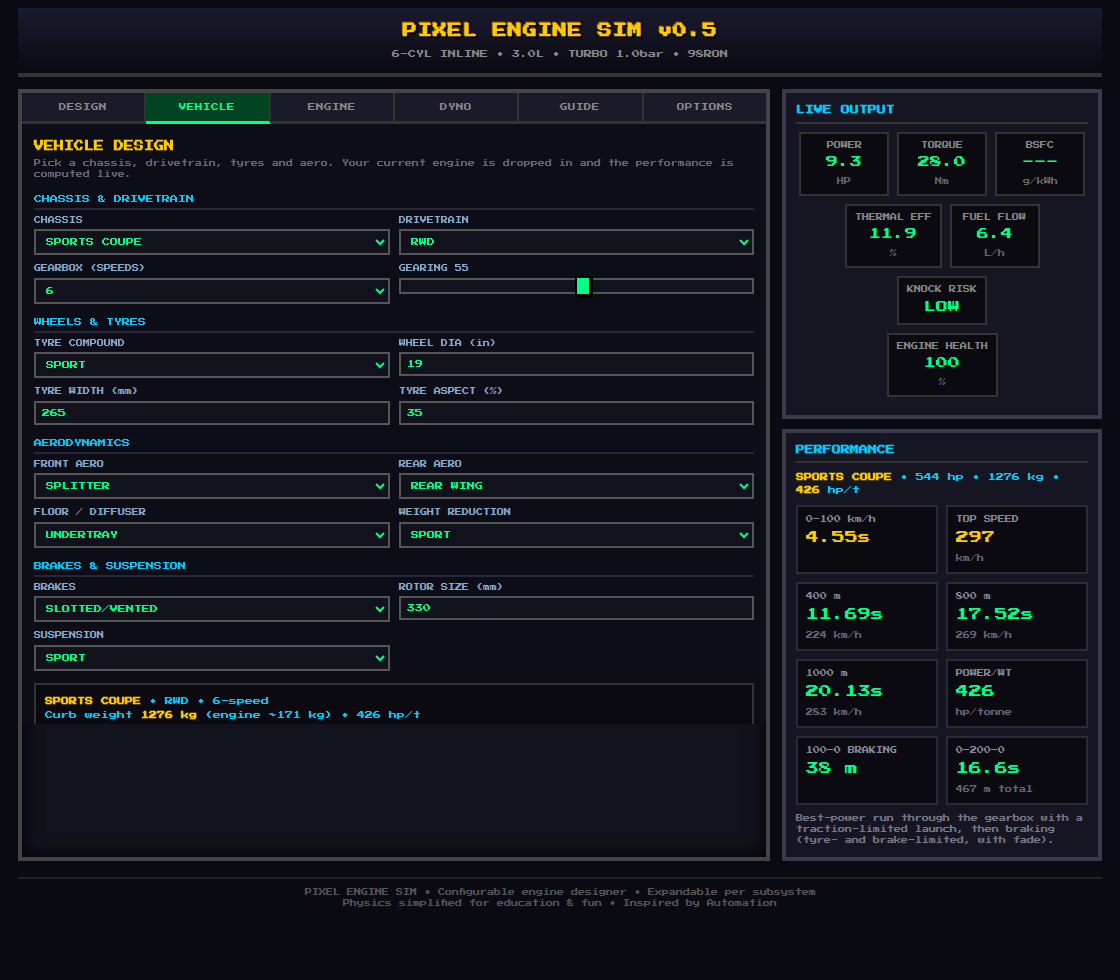
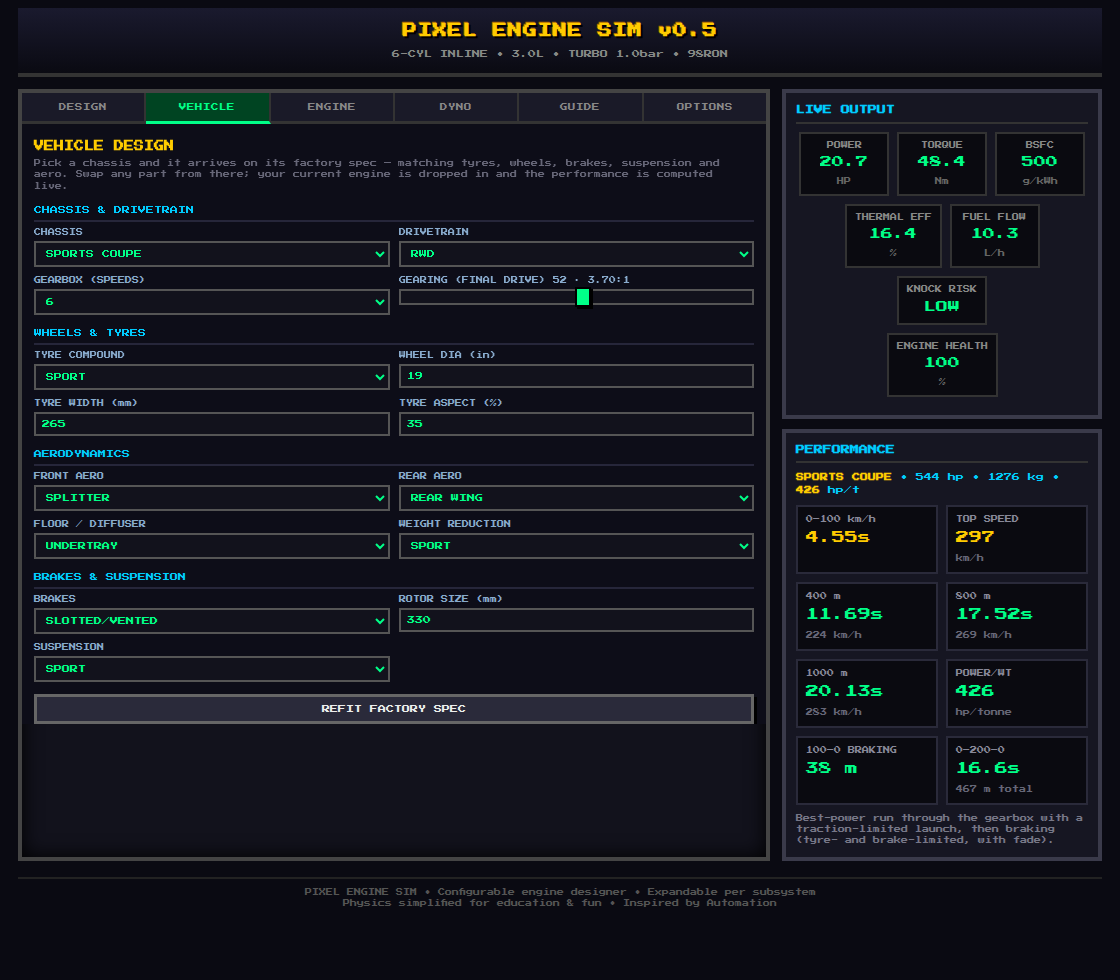
Chassis-linked factory fitment + explain the gearing number (#29)
Picking a chassis used to leave whatever parts were already selected, so a kei
car could turn up on 305-section slicks and carbon-ceramics. Each chassis now
carries a `fit`: the coherent factory spec it ships with — tyres, wheels,
brakes, rotor size, suspension, aero, weight reduction, gearbox and final
drive. Selecting a chassis applies that spec; everything stays editable and
REFIT FACTORY SPEC puts it back. The summary marks the car (factory spec) or
(modified).

Fitments are matched to each archetype: kei on 165/60R15 eco tyres with 260mm
steel discs, hot hatch on 205/45R17, muscle on 275/40R18 with a big brake kit,
mid-engine super on 285/35R19 semi-slicks with splitter/wing/undertray, hypercar
on 305/30R20 with carbon-ceramics and a full wing/diffuser package, prototype on
slicks, pickup/SUV on tall touring rubber.

Also explains the gearing number, which was an unlabelled 0-100 slider:
- Labelled GEARING (FINAL DRIVE) and the read-out now shows the ratio it means
  (e.g. "52 · 3.70:1"), spanning 4.90:1 short to 2.60:1 tall.
- GUIDE (EN + EL) gains a section on what the number is, what short vs tall
  gearing does, and why over-gearing costs both acceleration and top speed.
  Verified against the sim: a 1.5 NA sedan peaks at ~4.7:1 then falls from 200
  to 139 km/h by 2.60:1, while a twin-turbo V8 supercar gains all the way out.

Fixes a real bug found while testing: readVehicleFromForm used
`+value||55` for gearing, so a legitimate slider value of 0 (the shortest
[…]

diff --git a/index.html b/index.html
@@ -371,16 +371,31 @@ ignition type set charging and the misfire RPM limit.
 </div>
 <div class="design-section">Vehicle &amp; Performance</div>
 <div class="guide-body" data-gk="vehicle">
-On the <b>VEHICLE</b> tab you drop your engine into a car. Pick a <b>chassis</b> (each has its
-own weight, size and drivetrain), a <b>drivetrain</b> (FWD/RWD/AWD — AWD launches hardest),
-a <b>gearbox</b> (speeds + a short↔tall gearing slider), <b>tyres</b> (compound + width/profile/
+On the <b>VEHICLE</b> tab you drop your engine into a car. Pick a <b>chassis</b> and it arrives on
+its <b>factory spec</b> — the tyres, wheels, brakes, suspension, aero and gearbox that car would
+really wear, so a kei car turns up on skinny eco tyres and small steel discs while a hypercar gets
+wide semi-slicks, carbon-ceramics and a wing/diffuser package. Everything stays editable from
+there; <b>REFIT FACTORY SPEC</b> puts it all back.<br>
+From that baseline you tune the <b>drivetrain</b> (FWD/RWD/AWD — AWD launches hardest),
+the <b>gearbox</b> (speeds + the gearing slider), <b>tyres</b> (compound + width/profile/
 diameter set grip and rolling radius), <b>aero</b> (front/rear/floor add downforce and drag),
 <b>brakes</b> (type + rotor size set stopping power and fade resistance) and <b>suspension</b>
-(a mechanical-grip multiplier). The engine's mass and torque curve are added in and the
+(a mechanical-grip multiplier).<br>
+<b>The gearing number</b> — the 0–100 slider is your <b>final drive ratio</b>, how many times the
+driveshaft turns per turn of the wheels. It runs from <b>0 = 4.90:1</b> (the <i>shortest</i>,
+lowest gearing) to <b>100 = 2.60:1</b> (the <i>tallest</i>); the ratio is shown next to the number.
+Short gearing multiplies torque at the wheels, so the car accelerates harder and reaches the rev
+limiter sooner — quick 0–100, but it runs out of revs at a low top speed. Tall gearing does the
+opposite: lazier acceleration, more speed per 1000 rpm and a higher top speed, and calmer cruising
+revs. The best setting is the one where the car hits the redline in top gear right as drag stops
+it — go taller than that and you lose acceleration <i>and</i> top speed, because the engine can no
+longer pull to its power peak. Big power and low drag want taller gearing; heavy, low-power or
+draggy cars want shorter.<br>
+The engine's mass and torque curve are added in and the
 <b>Performance</b> panel computes <b>0–100 km/h</b>, <b>400/800/1000 m</b> (time + trap speed),
 <b>top speed</b>, <b>100–0 braking</b> and the <b>0–200–0</b> test live — a traction-limited launch
 and a tyre/brake-limited stop with fade, weight transfer, downforce, drag and rolling resistance.
-Over-gearing hurts both acceleration and top speed; sticky tyres, big brakes and AWD help most.
+Sticky tyres, big brakes and AWD help most.
 </div>
 <div class="guide-body" data-gk="tip" style="color:#667;margin-top:12px">Tip: turn WEAR off in OPTIONS to
 experiment freely, then back on for consequences.</div>
@@ -407,7 +422,7 @@ experiment freely, then back on for consequences.</div>
 <!-- VEHICLE: drop the engine into a car and read its acceleration & top speed -->
 <div class="design-panel vehicle-panel" id="vehiclePanelTab">
 <h3>VEHICLE DESIGN</h3>
-<div class="hint">Pick a chassis, drivetrain, tyres and aero. Your current engine is dropped in and the performance is computed live.</div>
+<div class="hint">Pick a chassis and it arrives on its factory spec — matching tyres, wheels, brakes, suspension and aero. Swap any part from there; your current engine is dropped in and the performance is computed live.</div>
 
 <div class="design-section">Chassis &amp; Drivetrain</div>
 <div class="design-grid">
@@ -419,7 +434,7 @@ experiment freely, then back on for consequences.</div>
 </select></div>
 <div class="field"><label for="vhDrive">DRIVETRAIN</label><select id="vhDrive"><option value="fwd">FWD</option><option value="rwd">RWD</option><option value="awd">AWD</option></select></div>
 <div class="field"><label for="vhGears">GEARBOX (SPEEDS)</label><select id="vhGears"><option value="4">4</option><option value="5">5</option><option value="6">6</option><option value="7">7</option><option value="8">8</option></select></div>
-<div class="field"><label for="vhGearing"><span id="lblGearing" class="ctl-lbl">GEARING</span> <span class="val" id="valGearing">55</span></label><input type="range" id="vhGearing" min="0" max="100" step="1" value="55" aria-label="Gearing short to tall"></div>
+<div class="field"><label for="vhGearing"><span id="lblGearing" class="ctl-lbl">GEARING (FINAL DRIVE)</span> <span class="val" id="valGearing">52</span></label><input type="range" id="vhGearing" min="0" max="100" step="1" value="52" aria-label="Gearing short to tall"></div>
 </div>
 
 <div class="design-section">Wheels &amp; Tyres</div>
@@ -443,6 +458,9 @@ experiment freely, then back on for consequences.</div>
 <div class="field"><label for="vhBrake">BRAKES</label><select id="vhBrake"><option value="steel">STEEL DISC</option><option value="slotted">SLOTTED/VENTED</option><option value="big">BIG BRAKE KIT</option><option value="carbon">CARBON-CERAMIC</option></select></div>
 <div class="field"><label for="vhRotor">ROTOR SIZE (mm)</label><input type="number" id="vhRotor" min="250" max="420" step="10" value="330"></div>
 <div class="field"><label for="vhSusp">SUSPENSION</label><select id="vhSusp"><option value="comfort">COMFORT</option><option value="sport">SPORT</option><option value="coilover">COILOVERS</option><option value="race">RACE/ADJUST</option></select></div>
+</div>
+<div class="build-row">
+<button id="btnRefit">REFIT FACTORY SPEC</button>
 </div>
 <div class="design-summary" id="vehicleSummary"></div>
 </div>
@@ -682,8 +700,10 @@ const I18N={
   'SOUND ON':{el:'ΗΧΟΣ ΟΝ'},'SOUND OFF':{el:'ΗΧΟΣ OFF'},'WEAR ON':{el:'ΦΘΟΡΑ ΟΝ'},'WEAR OFF':{el:'ΦΘΟΡΑ OFF'},
   // vehicle tab
   'VEHICLE':{el:'ΟΧΗΜΑ'},'VEHICLE DESIGN':{el:'ΣΧΕΔΙΑΣΗ ΟΧΗΜΑΤΟΣ'},
-  'Pick a chassis, drivetrain, tyres and aero. Your current engine is dropped in and the performance is computed live.':{el:'Διάλεξε σασί, μετάδοση, ελαστικά και αεροδυναμική. Ο τρέχων κινητήρας μπαίνει μέσα και οι επιδόσεις υπολογίζονται ζωντανά.'},
-  'Chassis & Drivetrain':{el:'Σασί & Μετάδοση'},'CHASSIS':{el:'ΣΑΣΙ'},'DRIVETRAIN':{el:'ΜΕΤΑΔΟΣΗ'},'GEARBOX (SPEEDS)':{el:'ΚΙΒΩΤΙΟ (ΣΧΕΣΕΙΣ)'},'GEARING':{el:'ΤΕΛΙΚΗ ΣΧΕΣΗ'},
+  'Pick a chassis and it arrives on its factory spec — matching tyres, wheels, brakes, suspension and aero. Swap any part from there; your current engine is dropped in and the performance is computed live.':{el:'Διάλεξε σασί και έρχεται με τον εργοστασιακό του εξοπλισμό — ταιριαστά ελαστικά, ζάντες, φρένα, ανάρτηση και αεροδυναμική. Άλλαξε ό,τι θέλεις από εκεί· ο τρέχων κινητήρας μπαίνει μέσα και οι επιδόσεις υπολογίζονται ζωντανά.'},
+  'Chassis & Drivetrain':{el:'Σασί & Μετάδοση'},'CHASSIS':{el:'ΣΑΣΙ'},'DRIVETRAIN':{el:'ΜΕΤΑΔΟΣΗ'},'GEARBOX (SPEEDS)':{el:'ΚΙΒΩΤΙΟ (ΣΧΕΣΕΙΣ)'},'GEARING (FINAL DRIVE)':{el:'ΤΕΛΙΚΗ ΣΧΕΣΗ'},
+  'REFIT FACTORY SPEC':{el:'ΕΡΓΟΣΤΑΣΙΑΚΟΣ ΕΞΟΠΛΙΣΜΟΣ'},'FITTED':{el:'ΤΟΠΟΘΕΤΗΘΗΚΕ'},'REFITTED TO FACTORY SPEC':{el:'ΕΠΑΝΑΦΟΡΑ ΣΤΟΝ ΕΡΓΟΣΤΑΣΙΑΚΟ ΕΞΟΠΛΙΣΜΟ'},
+  '(factory spec)':{el:'(εργοστασιακό)'},'(modified)':{el:'(τροποποιημένο)'},
   'Wheels & Tyres':{el:'Τροχοί & Ελαστικά'},'TYRE COMPOUND':{el:'ΤΥΠΟΣ ΕΛΑΣΤΙΚΟΥ'},'WHEEL DIA (in)':{el:'ΔΙΑΜ. ΖΑΝΤΑΣ (in)'},'TYRE WIDTH (mm)':{el:'ΠΛΑΤΟΣ ΕΛΑΣΤ. (mm)'},'TYRE ASPECT (%)':{el:'ΠΡΟΦΙΛ ΕΛΑΣΤ. (%)'},
   'Aerodynamics':{el:'Αεροδυναμική'},'FRONT AERO':{el:'ΕΜΠΡΟΣ ΑΕΡΟΔ.'},'REAR AERO':{el:'ΠΙΣΩ ΑΕΡΟΔ.'},'FLOOR / DIFFUSER':{el:'ΠΑΤΩΜΑ / DIFFUSER'},'WEIGHT REDUCTION':{el:'ΜΕΙΩΣΗ ΒΑΡΟΥΣ'},
   'Brakes & Suspension':{el:'Φρένα & Ανάρτηση'},'BRAKES':{el:'ΦΡΕΝΑ'},'ROTOR SIZE (mm)':{el:'ΔΙΑΜ. ΔΙΣΚΟΥ (mm)'},'SUSPENSION':{el:'ΑΝΑΡΤΗΣΗ'},
@@ -710,7 +730,7 @@ const GUIDE_I18N={
   career:{el:'Διάλεξε έναν <b>ΣΤΟΧΟ</b> στην κορυφή της ΣΧΕΔΙΑΣΗΣ για να κάνεις τη σχεδίαση γρίφο. Κάθε πρόκληση θέτει κριτήρια — ισχύ, οικονομία, εκπομπές, <b>αξιοπιστία</b> ή <b>ισχύ ανά δολάριο</b> — και κάποιες βάζουν όριο <b>προϋπολογισμού</b>. Η κάρτα τσεκάρει κάθε κριτήριο ζωντανά (✓/✗) και δείχνει <b>ΕΠΙΤΥΧΙΑ</b> όταν καλυφθούν όλα· κόστος και αξιοπιστία φαίνονται πάντα. Ο μεγάλος κυβισμός κερδίζει σε αξία· boost και αγωνιστικά μέρη κερδίζουν σε ισχύ αλλά κοστίζουν σε χρήμα και αξιοπιστία.'},
   types:{el:'<b>Βενζίνη 4-χρονη</b> — η ισορροπημένη επιλογή: ανάφλεξη με σπινθήρα, μία εκρηκτική διαδρομή ανά δύο στροφές.<br><b>Πετρέλαιο (CI)</b> — ανάφλεξη με συμπίεση (χωρίς μπουζί, χωρίς πειράκι), πολύ υψηλή συμπίεση, φτωχό χωρίς πεταλούδα. Μεγάλη <b>ροπή</b> στις χαμηλές, χαμηλό όριο στροφών, η καλύτερη <b>απόδοση</b> — αλλά βαρύ, με εκπομπές <b>NOx + αιθάλη (PM)</b> που καθαρίζει σύστημα DPF/SCR.<br><b>2-χρονη</b> — εκρηκτική διαδρομή σε <i>κάθε</i> στροφή (θυρίδες, χωρίς εκκεντροφόρο): υψηλή ειδική ισχύς αλλά λαίμαργη και <b>HC</b>-βρόμικη.<br><b>Wankel (ρότορας)</b> — περιστρεφόμενος ρότορας που ανάβει σε κάθε στροφή: ομαλός σαν τουρμπίνα, τεράστιες στροφές, υψηλή ισχύς ανά λίτρο, αλλά λαίμαργος, <b>HC</b>-βαρύς και σκληρός στα ελάσματα κορυφής.<br>Η αλλαγή τύπου προσαρμόζει τα εύρη συμπίεσης/στροφών/AFR και απενεργοποιεί ό,τι δεν ισχύει.'},
   subsystems:{el:'<b>Κάτω μέρος</b> — τύπος κινητήρα, διάμετρος × διαδρομή × κύλινδροι = κυβισμός· υπερτετράγωνος & υψηλότερο όριο ανεβάζουν την περιοχή ισχύος.<br><b>Διαδρομή αέρα</b> — τούρμπο (γεμίζει με τις στροφές) ή υπερσυμπιεστής (boost από ρελαντί)· το intercooler ψύχει το χάρμανι· εξάτμιση & καταλύτης ανταλλάσσουν ροή με αντίθλιψη/εκπομπές· το νιτρό είναι εμφιαλωμένη ισχύς.<br><b>Εισαγωγή</b> — καρμπιρατέρ → EFI → ITB ορίζουν αναπνοή, ακρίβεια & ρελαντί.<br><b>Χρονισμός βαλβίδων</b> — άγριες εκκεντροφόροι ανεβάζουν την ισχύ ψηλά· το VVT επαναφέρει τις χαμηλές.<br><b>Καύσιμο & σπινθήρας</b> — τύπος καυσίμου, οκτάνια, μπεκ, ανάφλεξη, χρονισμός FIXED/AUTO και το μείγμα: MANUAL (ένα σταθερό AFR) ή AUTO — ένας 3D χάρτης ECU που τρέχει κοντά στο στοιχειομετρικό στο ελαφρύ φορτίο και εμπλουτίζει υπό φορτίο/boost, όπως ένας πραγματικός χάρτης καυσίμου. Στο AUTO μπορείς να <b>ρυθμίσεις τον χάρτη</b>: πάτησε ένα κελί και μετά − ΦΤΩΧΟ / + ΠΛΟΥΣΙΟ για να αλλάξεις τον στόχο σε εκείνο το φορτίο×στροφές (ΕΠΑΝΑΦΟΡΑ ΧΑΡΤΗ επαναφέρει το εργοστασιακό).<br><b>Ψύξη & ηλεκτρικά</b> — ψυγείο/βεντιλατέρ/ψυγείο λαδιού/θερμοστάτης ορίζουν θερμοκρασίες· δυναμό & ανάφλεξη ορίζουν φόρτιση και όριο μισφάιρ.'},
-  vehicle:{el:'Στην καρτέλα <b>ΟΧΗΜΑ</b> βάζεις τον κινητήρα σου σε αυτοκίνητο. Διάλεξε <b>σασί</b> (κάθε ένα με δικό του βάρος, μέγεθος και μετάδοση), <b>μετάδοση</b> (FWD/RWD/AWD — το AWD ξεκινά καλύτερα), <b>κιβώτιο</b> (σχέσεις + ρυθμιστικό κοντή↔μακριά τελική), <b>ελαστικά</b> (τύπος + πλάτος/προφίλ/διάμετρος), <b>αεροδυναμική</b> (εμπρός/πίσω/πάτωμα = κάθετη δύναμη & οπισθέλκουσα), <b>φρένα</b> (τύπος + διάμετρος δίσκου ορίζουν φρενάρισμα και αντοχή στην εξασθένηση) και <b>ανάρτηση</b> (πολλαπλασιαστής μηχανικής πρόσφυσης). Ο κινητήρας προστίθεται και το ταμπλό <b>Επιδόσεις</b> υπολογίζει <b>0–100 km/h</b>, <b>400/800/1000 m</b>, <b>τελική</b>, <b>φρενάρισμα 100–0</b> και το τεστ <b>0–200–0</b> ζωντανά — εκκίνηση περιορισμένη από πρόσφυση και φρενάρισμα με όριο ελαστικών/φρένων και εξασθένηση. Η υπερβολικά μακριά τελική βλάπτει επιτάχυνση και τελική· κολλώδη ελαστικά, μεγάλα φρένα και AWD βοηθούν πιο πολύ.'},
+  vehicle:{el:'Στην καρτέλα <b>ΟΧΗΜΑ</b> βάζεις τον κινητήρα σου σε αυτοκίνητο. Διάλεξε <b>σασί</b> και έρχεται με τον <b>εργοστασιακό του εξοπλισμό</b> — τα ελαστικά, ζάντες, φρένα, ανάρτηση, αεροδυναμική και κιβώτιο που θα φορούσε πραγματικά: ένα kei εμφανίζεται με στενά οικονομικά ελαστικά και μικρούς ατσάλινους δίσκους, ενώ ένα hypercar παίρνει φαρδιά semi-slick, carbon-ceramic φρένα και πακέτο αεροτομής/diffuser. Όλα παραμένουν επεξεργάσιμα· το <b>ΕΡΓΟΣΤΑΣΙΑΚΟΣ ΕΞΟΠΛΙΣΜΟΣ</b> τα επαναφέρει.<br>Από εκεί ρυθμίζεις <b>μετάδοση</b> (FWD/RWD/AWD — το AWD ξεκινά καλύτερα), <b>κιβώτιο</b> (σχέσεις + ρυθμιστικό τελικής), <b>ελαστικά</b> (τύπος + πλάτος/προφίλ/διάμετρος), <b>αεροδυναμική</b> (εμπρός/πίσω/πάτωμα = κάθετη δύναμη & οπισθέλκουσα), <b>φρένα</b> (τύπος + διάμετρος δίσκου) και <b>ανάρτηση</b> (πολλαπλασιαστής μηχανικής πρόσφυσης).<br><b>Ο αριθμός της τελικής</b> — το ρυθμιστικό 0–100 είναι η <b>σχέση τελικής μετάδοσης</b>, πόσες φορές γυρίζει ο άξονας ανά στροφή των τροχών. Πάει από <b>0 = 4.90:1</b> (η <i>κοντύτερη</i>) έως <b>100 = 2.60:1</b> (η <i>μακρύτερη</i>)· η σχέση φαίνεται δίπλα στον αριθμό. Κοντή τελική πολλαπλασιάζει τη ροπή στους τροχούς: δυνατότερη επιτάχυνση αλλά το κόφτη έρχεται νωρίς, άρα γρήγορο 0–100 με χαμηλή τελική ταχύτητα. Μακριά τελική κάνει το αντίθετο: πιο νωθρή επιτάχυνση, περισσότερη ταχύτητα ανά 1000 στροφές, υψηλότερη τελική και ήρεμο ταξίδι. Ιδανική είναι εκείνη που φτάνει στο κόφτη στην τελευταία σχέση ακριβώς όταν η οπισθέλκουσα σταματά το αυτοκίνητο — πιο μακριά από αυτό χάνεις επιτάχυνση <i>και</i> τελική, γιατί ο κινητήρας δεν φτάνει πια στην κορυφή της ισχύος του. Πολλή ισχύς και λίγη οπισθέλκουσα θέλουν μακρύτερη· βαριά, αδύναμα ή αεροδυναμικά «βρώμικα» αυτοκίνητα θέλουν κοντύτερη.<br>Ο κινητήρας προστίθεται και το ταμπλό <b>Επιδόσεις</b> υπολογίζει <b>0–100 km/h</b>, <b>400/800/1000 m</b>, <b>τελική</b>, <b>φρενάρισμα 100–0</b> και το τεστ <b>0–200–0</b> ζωντανά — εκκίνηση περιορισμένη από πρόσφυση και φρενάρισμα με όριο ελαστικών/φρένων και εξασθένηση. Κολλώδη ελαστικά, μεγάλα φρένα και AWD βοηθούν πιο πολύ.'},
   tip:{el:'Συμβουλή: κλείσε τη ΦΘΟΡΑ στις ΕΠΙΛΟΓΕΣ για ελεύθερο πειραματισμό, μετά ξανάνοιξέ την για συνέπειες.'}
 };
 const CHALLENGE_I18N={
@@ -832,20 +852,37 @@ const CAT={
 // wb = wheelbase (m), cg = centre-of-gravity height (m), fWt = static front weight fraction,
 // grip = mechanical grip factor, drive = default driven layout, aero = how much downforce the
 // body can carry (a formula car a lot, a truck little), cost = chassis price.
+// Each chassis carries a `fit`: the coherent factory-spec parts it ships with (tyres, wheels,
+// brakes, suspension, aero, weight, gearbox). Selecting a chassis applies its fit so every car is
+// a believable whole — a kei car on skinny eco tyres & steel discs, a hypercar on wide slicks,
+// carbon-ceramics and a full wing/diffuser package — which the user can then tune from.
 const CHASSIS={
-  kei:      {label:'KEI CAR',           mass:640, area:1.85,cd:0.34,wb:2.40,cg:0.52,fWt:0.60,grip:0.98,drive:'fwd',aero:0.4,cost:5000},
-  hatch:    {label:'HOT HATCH',         mass:1080,area:2.10,cd:0.32,wb:2.60,cg:0.52,fWt:0.62,grip:1.00,drive:'fwd',aero:0.6,cost:8000},
-  roadster: {label:'LIGHT ROADSTER',    mass:980, area:1.90,cd:0.35,wb:2.30,cg:0.46,fWt:0.52,grip:1.04,drive:'rwd',aero:0.6,cost:9000},
-  coupe:    {label:'SPORTS COUPE',      mass:1200,area:2.05,cd:0.31,wb:2.65,cg:0.48,fWt:0.54,grip:1.03,drive:'rwd',aero:0.8,cost:11000},
-  sedan:    {label:'SPORTS SEDAN',      mass:1420,area:2.20,cd:0.29,wb:2.85,cg:0.52,fWt:0.55,grip:1.00,drive:'rwd',aero:0.7,cost:12000},
-  muscle:   {label:'MUSCLE CAR',        mass:1620,area:2.25,cd:0.36,wb:2.95,cg:0.50,fWt:0.56,grip:0.98,drive:'rwd',aero:0.5,cost:13000},
-  rally:    {label:'RALLY AWD HATCH',   mass:1300,area:2.15,cd:0.34,wb:2.60,cg:0.52,fWt:0.58,grip:1.06,drive:'awd',aero:0.7,cost:14000},
-  gt:       {label:'GRAND TOURER',      mass:1580,area:2.15,cd:0.30,wb:2.90,cg:0.48,fWt:0.52,grip:1.04,drive:'rwd',aero:0.9,cost:20000},
-  super:    {label:'MID-ENGINE SUPER',  mass:1340,area:1.95,cd:0.33,wb:2.65,cg:0.44,fWt:0.42,grip:1.12,drive:'rwd',aero:1.2,cost:30000},
-  hyper:    {label:'CARBON HYPERCAR',   mass:1240,area:1.92,cd:0.35,wb:2.70,cg:0.44,fWt:0.44,grip:1.18,drive:'awd',aero:1.6,cost:60000},
-  proto:    {label:'TRACK PROTOTYPE',   mass:620, area:1.55,cd:0.60,wb:2.80,cg:0.32,fWt:0.46,grip:1.30,drive:'rwd',aero:3.0,cost:45000},
-  pickup:   {label:'PICKUP TRUCK',      mass:2050,area:3.20,cd:0.45,wb:3.60,cg:0.68,fWt:0.58,grip:0.92,drive:'rwd',aero:0.2,cost:11000},
-  suv:      {label:'PERFORMANCE SUV',   mass:1950,area:2.95,cd:0.36,wb:2.95,cg:0.66,fWt:0.54,grip:0.96,drive:'awd',aero:0.4,cost:16000}
+  kei:      {label:'KEI CAR',           mass:640, area:1.85,cd:0.34,wb:2.40,cg:0.52,fWt:0.60,grip:0.98,drive:'fwd',aero:0.4,cost:5000,
+             fit:{tire:'eco',  tw:165,ta:60,wheel:15,brake:'steel',  rotor:260,susp:'comfort', aF:'none',    aR:'none',aFl:'none',     weight:'none',  gears:5,gearing:44}},
+  hatch:    {label:'HOT HATCH',         mass:1080,area:2.10,cd:0.32,wb:2.60,cg:0.52,fWt:0.62,grip:1.00,drive:'fwd',aero:0.6,cost:8000,
+             fit:{tire:'sport',tw:205,ta:45,wheel:17,brake:'slotted',rotor:300,susp:'sport',   aF:'none',    aR:'none',aFl:'none',     weight:'none',  gears:6,gearing:50}},
+  roadster: {label:'LIGHT ROADSTER',    mass:980, area:1.90,cd:0.35,wb:2.30,cg:0.46,fWt:0.52,grip:1.04,drive:'rwd',aero:0.6,cost:9000,
+             fit:{tire:'sport',tw:195,ta:50,wheel:16,brake:'slotted',rotor:290,susp:'sport',   aF:'none',    aR:'none',aFl:'none',     weight:'street',gears:6,gearing:52}},
+  coupe:    {label:'SPORTS COUPE',      mass:1200,area:2.05,cd:0.31,wb:2.65,cg:0.48,fWt:0.54,grip:1.03,drive:'rwd',aero:0.8,cost:11000,
+             fit:{tire:'sport',tw:245,ta:40,wheel:18,brake:'slotted',rotor:330,susp:'sport',   aF:'none',    aR:'lip', aFl:'none',     weight:'none',  gears:6,gearing:52}},
+  sedan:    {label:'SPORTS SEDAN',      mass:1420,area:2.20,cd:0.29,wb:2.85,cg:0.52,fWt:0.55,grip:1.00,drive:'rwd',aero:0.7,cost:12000,
+             fit:{tire:'sport',tw:245,ta:40,wheel:18,brake:'slotted',rotor:330,susp:'sport',   aF:'none',    aR:'none',aFl:'none',     weight:'none',  gears:7,gearing:56}},
+  muscle:   {label:'MUSCLE CAR',        mass:1620,area:2.25,cd:0.36,wb:2.95,cg:0.50,fWt:0.56,grip:0.98,drive:'rwd',aero:0.5,cost:13000,
+             fit:{tire:'sport',tw:275,ta:40,wheel:18,brake:'big',    rotor:340,susp:'sport',   aF:'none',    aR:'none',aFl:'none',     weight:'none',  gears:6,gearing:48}},
+  rally:    {label:'RALLY AWD HATCH',   mass:1300,area:2.15,cd:0.34,wb:2.60,cg:0.52,fWt:0.58,grip:1.06,drive:'awd',aero:0.7,cost:14000,
+             fit:{tire:'sport',tw:225,ta:45,wheel:17,brake:'slotted',rotor:320,susp:'coilover',aF:'splitter',aR:'lip', aFl:'none',     weight:'street',gears:6,gearing:50}},
+  gt:       {label:'GRAND TOURER',      mass:1580,area:2.15,cd:0.30,wb:2.90,cg:0.48,fWt:0.52,grip:1.04,drive:'rwd',aero:0.9,cost:20000,
+             fit:{tire:'sport',tw:265,ta:35,wheel:19,brake:'big',    rotor:350,susp:'coilover',aF:'splitter',aR:'lip', aFl:'none',     weight:'none',  gears:7,gearing:58}},
+  super:    {label:'MID-ENGINE SUPER',  mass:1340,area:1.95,cd:0.33,wb:2.65,cg:0.44,fWt:0.42,grip:1.12,drive:'rwd',aero:1.2,cost:30000,
+             fit:{tire:'semi', tw:285,ta:35,wheel:19,brake:'big',    rotor:360,susp:'coilover',aF:'splitter',aR:'wing',aFl:'undertray',weight:'sport', gears:7,gearing:54}},
+  hyper:    {label:'CARBON HYPERCAR',   mass:1240,area:1.92,cd:0.35,wb:2.70,cg:0.44,fWt:0.44,grip:1.18,drive:'awd',aero:1.6,cost:60000,
+             fit:{tire:'semi', tw:305,ta:30,wheel:20,brake:'carbon', rotor:390,susp:'race',    aF:'wing',    aR:'wing',aFl:'diffuser', weight:'sport', gears:7,gearing:56}},
+  proto:    {label:'TRACK PROTOTYPE',   mass:620, area:1.55,cd:0.60,wb:2.80,cg:0.32,fWt:0.46,grip:1.30,drive:'rwd',aero:3.0,cost:45000,
+             fit:{tire:'slick',tw:305,ta:30,wheel:18,brake:'carbon', rotor:380,susp:'race',    aF:'wing',    aR:'wing',aFl:'diffuser', weight:'race',  gears:6,gearing:50}},
+  pickup:   {label:'PICKUP TRUCK',      mass:2050,area:3.20,cd:0.45,wb:3.60,cg:0.68,fWt:0.58,grip:0.92,drive:'rwd',aero:0.2,cost:11000,
+             fit:{tire:'eco',  tw:265,ta:65,wheel:17,brake:'slotted',rotor:330,susp:'comfort', aF:'none',    aR:'none',aFl:'none',     weight:'none',  gears:6,gearing:42}},
+  suv:      {label:'PERFORMANCE SUV',   mass:1950,area:2.95,cd:0.36,wb:2.95,cg:0.66,fWt:0.54,grip:0.96,drive:'awd',aero:0.4,cost:16000,
+             fit:{tire:'sport',tw:275,ta:45,wheel:20,brake:'big',    rotor:350,susp:'sport',   aF:'none',    aR:'none',aFl:'none',     weight:'none',  gears:8,gearing:48}}
 };
 // Tyre compound: mu = peak grip coefficient (dry), crr = rolling resistance, cost.
 const TIRE_TYPE={
@@ -883,10 +920,11 @@ const SUSPENSION={
 const DRIVE_EFF={fwd:0.92,rwd:0.90,awd:0.86};
 const AIR_RHO=1.20;   // air density kg/m³
 const G=9.81;
+// The default car is simply the SPORTS COUPE on its own factory fitment (CHASSIS.coupe.fit).
 const DEFAULT_VEHICLE={
-  chassis:'coupe',drive:'rwd',gears:6,gearing:55,
-  tireType:'sport',tireWidth:235,tireAspect:40,wheelDia:18,
-  aeroFront:'splitter',aeroRear:'lip',aeroFloor:'none',weightRed:'street',
+  chassis:'coupe',drive:'rwd',gears:6,gearing:52,
+  tireType:'sport',tireWidth:245,tireAspect:40,wheelDia:18,
+  aeroFront:'none',aeroRear:'lip',aeroFloor:'none',weightRed:'none',
   brakeType:'slotted',rotor:330,suspension:'sport'
 };
 let vehicle=Object.assign({},DEFAULT_VEHICLE);
@@ -1782,13 +1820,16 @@ function engineMass(){
   if(engine.layout==='v'||engine.layout==='boxer')m+=10;
   return Math.round(m);
 }
+// Parse a numeric field, keeping a legitimate 0 (unlike `+v||fallback`).
+const numOr=(v,fallback)=>{const n=parseFloat(v);return Number.isFinite(n)?n:fallback;};
 // Auto-spaced gear ratios: a geometric progression from a short 1st to a tall top gear.
 function genRatios(n){n=clamp(Math.round(n),4,8);const r1=3.35,rn=0.82,out=[];for(let i=0;i<n;i++)out.push(r1*Math.pow(rn/r1,i/(n-1)));return out;}
 function readVehicleFromForm(){
   const g=id=>document.getElementById(id);
   return {
     chassis:g('vhChassis').value,drive:g('vhDrive').value,
-    gears:clamp(Math.round(+g('vhGears').value||6),4,8),gearing:clamp(+g('vhGearing').value||55,0,100),
+    // gearing may legitimately be 0 (shortest final drive), so fall back only on a non-number.
+    gears:clamp(Math.round(+g('vhGears').value||6),4,8),gearing:clamp(numOr(g('vhGearing').value,52),0,100),
     tireType:g('vhTire').value,tireWidth:clamp(Math.round(+g('vhTireW').value||225),135,355),
     tireAspect:clamp(Math.round(+g('vhTireA').value||40),25,70),wheelDia:clamp(Math.round(+g('vhWheel').value||18),13,22),
     aeroFront:g('vhAeroF').value,aeroRear:g('vhAeroR').value,aeroFloor:g('vhAeroFl').value,weightRed:g('vhWeight').value,
@@ -1798,10 +1839,44 @@ function readVehicleFromForm(){
 function applyVehicleToForm(v){
   const g=id=>document.getElementById(id);
   g('vhChassis').value=v.chassis||'coupe';g('vhDrive').value=v.drive||'rwd';
-  g('vhGears').value=v.gears||6;g('vhGearing').value=v.gearing!=null?v.gearing:55;
+  g('vhGears').value=v.gears||6;g('vhGearing').value=v.gearing!=null?v.gearing:52;
   g('vhTire').value=v.tireType||'sport';g('vhTireW').value=v.tireWidth||235;g('vhTireA').value=v.tireAspect||40;g('vhWheel').value=v.wheelDia||18;
   g('vhAeroF').value=v.aeroFront||'none';g('vhAeroR').value=v.aeroRear||'none';g('vhAeroFl').value=v.aeroFloor||'none';g('vhWeight').value=v.weightRed||'none';
   g('vhBrake').value=v.brakeType||'slotted';g('vhRotor').value=v.rotor||330;g('vhSusp').value=v.suspension||'sport';
+  updateGearingLabel();
+}
+// Fit a chassis with its factory-spec parts, so picking a chassis gives a coherent car instead of
+// a hypercar on kei-car tyres. Everything stays editable afterwards — this only sets the baseline.
+function applyChassisFit(key){
+  const ch=CHASSIS[key];if(!ch||!ch.fit)return null;
+  const f=ch.fit,g=id=>document.getElementById(id);
+  g('vhDrive').value=ch.drive;
+  g('vhGears').value=f.gears;g('vhGearing').value=f.gearing;
+  g('vhTire').value=f.tire;g('vhTireW').value=f.tw;g('vhTireA').value=f.ta;g('vhWheel').value=f.wheel;
+  g('vhAeroF').value=f.aF;g('vhAeroR').value=f.aR;g('vhAeroFl').value=f.aFl;g('vhWeight').value=f.weight;
+  g('vhBrake').value=f.brake;g('vhRotor').value=f.rotor;g('vhSusp').value=f.susp;
+  updateGearingLabel();
+  return ch;
+}
+// The GEARING slider is a final-drive ratio: 0 = shortest (4.90:1 — quick acceleration, low top
+// speed), 100 = tallest (2.60:1 — relaxed revs, higher top speed). Show the ratio it means.
+function updateGearingLabel(){
+  const el=document.getElementById('vhGearing'),out=document.getElementById('valGearing');
+  if(!el||!out)return;
+  out.textContent=el.value+' · '+lerp(4.9,2.6,(+el.value)/100).toFixed(2)+':1';
+}
+// The rolling diameter the fitted tyre actually gives (in), for the fitment read-out.
+function fitmentLabel(v){
+  const dia=(v.wheelDia*25.4+2*v.tireWidth*v.tireAspect/100)/25.4;
+  return v.tireWidth+'/'+v.tireAspect+'R'+v.wheelDia+' ('+dia.toFixed(1)+'in Ø)';
+}
+// True when every fitted part still matches the chassis' factory spec.
+function isFactoryFit(v){
+  const ch=CHASSIS[v.chassis];if(!ch||!ch.fit)return false;const f=ch.fit;
+  return v.drive===ch.drive&&v.gears===f.gears&&v.gearing===f.gearing&&
+    v.tireType===f.tire&&v.tireWidth===f.tw&&v.tireAspect===f.ta&&v.wheelDia===f.wheel&&
+    v.aeroFront===f.aF&&v.aeroRear===f.aR&&v.aeroFloor===f.aFl&&v.weightRed===f.weight&&
+    v.brakeType===f.brake&&v.rotor===f.rotor&&v.suspension===f.susp;
 }
 function computeVehicleCost(ch,tt,wr){
   let c=ch.cost+tt.cost+wr.cost;
@@ -1928,7 +2003,9 @@ function updateVehicleSummary(){
   const el=document.getElementById('vehicleSummary');if(!el)return;
   const dl={fwd:'FWD',rwd:'RWD',awd:'AWD'}[vehicle.drive]||'RWD';
   el.className='design-summary vehicleSummaryWrap';
+  const stock=isFactoryFit(vehicle);
   el.innerHTML='<b>'+vehicle.chLabel+'</b> • '+dl+' • '+vehicle.gears+'-speed'+
+    ' <span style="color:'+(stock?'#7a8':'#ffcc00')+'">'+tr(stock?'(factory spec)':'(modified)')+'</span>'+
     '<br>Curb weight <b>'+Math.round(vehicle.mass)+' kg</b> (engine ~'+vehicle.engineMass+' kg) • '+vehicle.powerToWeight.toFixed(0)+' hp/t'+
     '<br>Tyres <b>'+(TIRE_TYPE[vehicle.tireType]||TIRE_TYPE.sport).label+'</b> '+vehicle.tireWidth+'/'+vehicle.tireAspect+' R'+vehicle.wheelDia+' • grip μ<b>'+vehicle.mu.toFixed(2)+'</b>'+
     '<br>Brakes <b>'+(BRAKE_TYPE[vehicle.brakeType]||BRAKE_TYPE.slotted).label+'</b> '+vehicle.rotor+'mm ('+(vehicle.brakeDecelCap/G).toFixed(2)+'g) • Susp <b>'+(SUSPENSION[vehicle.suspension]||SUSPENSION.sport).label+'</b>'+
@@ -2531,14 +2608,26 @@ function bindControls(){
   document.getElementById('tabDyno').addEventListener('click',()=>setTab('dyno'));
   document.getElementById('tabGuide').addEventListener('click',()=>setTab('guide'));
   document.getElementById('tabOptions').addEventListener('click',()=>setTab('options'));
-  // Vehicle design: recompute performance live on any change; chassis sets a default drivetrain.
+  // Vehicle design: recompute performance live on any change. Picking a chassis fits its whole
+  // factory spec (drivetrain, gearbox, tyres/wheels, brakes, suspension, aero, weight).
   ['vhChassis','vhDrive','vhGears','vhGearing','vhTire','vhTireW','vhTireA','vhWheel','vhAeroF','vhAeroR','vhAeroFl','vhWeight','vhBrake','vhRotor','vhSusp'].forEach(id=>{
     const el=document.getElementById(id);if(!el)return;
     el.addEventListener('input',()=>{
-      if(id==='vhChassis'){const ch=CHASSIS[el.value];if(ch)document.getElementById('vhDrive').value=ch.drive;}
-      document.getElementById('valGearing').textContent=document.getElementById('vhGearing').value;
+      if(id==='vhChassis'){
+        const ch=applyChassisFit(el.value);
+        if(ch)flash(tr('FITTED')+': '+tr(ch.label)+' • '+fitmentLabel(readVehicleFromForm()));
+      }
+      updateGearingLabel();
       buildVehicle();updateVehicleSummary();
     });
+  });
+  // Refit the current chassis to its factory spec (undo your part swaps).
+  const btnFit=document.getElementById('btnRefit');
+  if(btnFit)btnFit.addEventListener('click',()=>{
+    const ch=applyChassisFit(document.getElementById('vhChassis').value);
+    document.getElementById('valGearing').textContent=document.getElementById('vhGearing').value;
+    buildVehicle();updateVehicleSummary();
+    if(ch)flash(tr('REFITTED TO FACTORY SPEC')+': '+tr(ch.label));
   });
 
   const vizPanel=document.querySelector('.viz-panel');

diff --git a/README.md b/README.md
@@ -81,8 +81,14 @@ saps power; a large radiator, electric fan and oil cooler keep it cool.
   right column is context-aware: runtime Engine Controls while driving/on the dyno, and the
   live **Performance** panel on the VEHICLE tab.
 - **Vehicle & performance (new)** — pick a **chassis** (13 archetypes, each with its own weight,
-  size, drivetrain and grip), a **drivetrain** (FWD/RWD/AWD), a **gearbox** (4–8 speeds + a
-  short↔tall gearing slider), **tyres** (compound + width/profile/wheel diameter → grip &
+  size, drivetrain and grip) and it arrives on its **factory spec**: the tyres, wheels, brakes,
+  suspension, aero and gearbox that car would really wear, so a kei car turns up on skinny eco
+  tyres and small steel discs while a hypercar gets wide semi-slicks, carbon-ceramics and a
+  wing/diffuser package. Every part stays editable from there, and **REFIT FACTORY SPEC** puts it
+  all back; the summary marks the car *(factory spec)* or *(modified)*. Tune the
+  **drivetrain** (FWD/RWD/AWD), the **gearbox** (4–8 speeds + a
+  **final-drive slider**, 4.90:1 short → 2.60:1 tall, with the ratio shown next to the number),
+  **tyres** (compound + width/profile/wheel diameter → grip &
   rolling radius), **aero** (front/rear/floor downforce vs drag), **brakes** (type + rotor size →
   stopping power & fade resistance), **suspension** (a grip multiplier) and **weight reduction**.
   Your current engine is dropped in and the sim computes **0–100 km/h**, **400 / 800 / 1000 m**
@@ -264,7 +270,13 @@ Curve** tab remains a wide-open-throttle steady-state sweep for reading the full
   including static weight distribution, longitudinal weight transfer under acceleration, and
   aero downforce). Aero drag (½ρ·CdA·v²) and rolling resistance oppose it; the car shifts at the
   limiter. Top speed is where top-gear thrust equals drag (or the limiter, whichever comes
-  first), so over-gearing lowers it. AWD puts all four tyres' grip down and launches hardest;
+  first), so over-gearing lowers it. The **gearing number is the final drive** (0 = 4.90:1,
+  100 = 2.60:1): short gearing multiplies wheel torque for a quicker 0–100 but hits the limiter
+  at a low speed, tall gearing does the reverse, and the optimum is where the car reaches the
+  redline in top gear just as drag stops it — past that you lose acceleration *and* top speed.
+  In the sim a 1.5 NA sedan peaks at ~4.7:1 and drops from 200 to 139 km/h by 2.60:1, while a
+  twin-turbo V8 supercar keeps gaining all the way to the tallest setting.
+  AWD puts all four tyres' grip down and launches hardest;
   FWD loses front load under acceleration. Engine mass is estimated from the spec and added to
   the chassis for curb weight and power-to-weight. Braking is the mirror image: deceleration is
   the lesser of tyre grip (μ·(weight + downforce)) and what the brakes can command (capacity by
@@ -318,10 +330,11 @@ philosophy).
    2-stroke, each with its own firing frequency, fuelling, efficiency, emissions and sound.
 6. **(A) Vehicle / drivetrain layer** — 🚧 *in progress.* **Done:** chassis, drivetrain
    (FWD/RWD/AWD), gearbox, tyres, aero, weight, **brakes and suspension** → **acceleration
-   (0–100 km/h, 400/800/1000 m), top speed, 100–0 braking and the 0–200–0 test**. **Next:** a
-   test track.
+   (0–100 km/h, 400/800/1000 m), top speed, 100–0 braking and the 0–200–0 test**, plus
+   **per-chassis factory fitment** (each chassis ships with matching tyres/wheels/brakes/
+   suspension/aero) and a REFIT button. **Next:** a test track.
 
-Deferred: 2D fuel/ignition map editor (parked for later); V/boxer bank visuals (cosmetic);
+Deferred: V/boxer bank visuals (cosmetic);
 native Android build (parked).
 
 ### Completed
@@ -355,6 +368,7 @@ native Android build (parked).
 - [x] New engine types: diesel (CI), 2-stroke and rotary/Wankel, each with distinct physics & emissions
 - [x] Localisation (English / Greek) with persistence, and a responsive portrait layout
 - [x] Vehicle layer: chassis/drivetrain/gearbox/tyres/aero/weight/brakes/suspension → 0–100, 400/800/1000 m, top speed, 100–0 & 0–200–0
+- [x] Per-chassis factory fitment (matching tyres/wheels/brakes/suspension/aero) + a final-drive read-out on the gearing slider
 - [x] Calibration pass for realistic power figures & curve shape (ongoing refinement)
 - [ ] Native Android build (wrap the PWA with Capacitor or a Trusted Web Activity)
 
